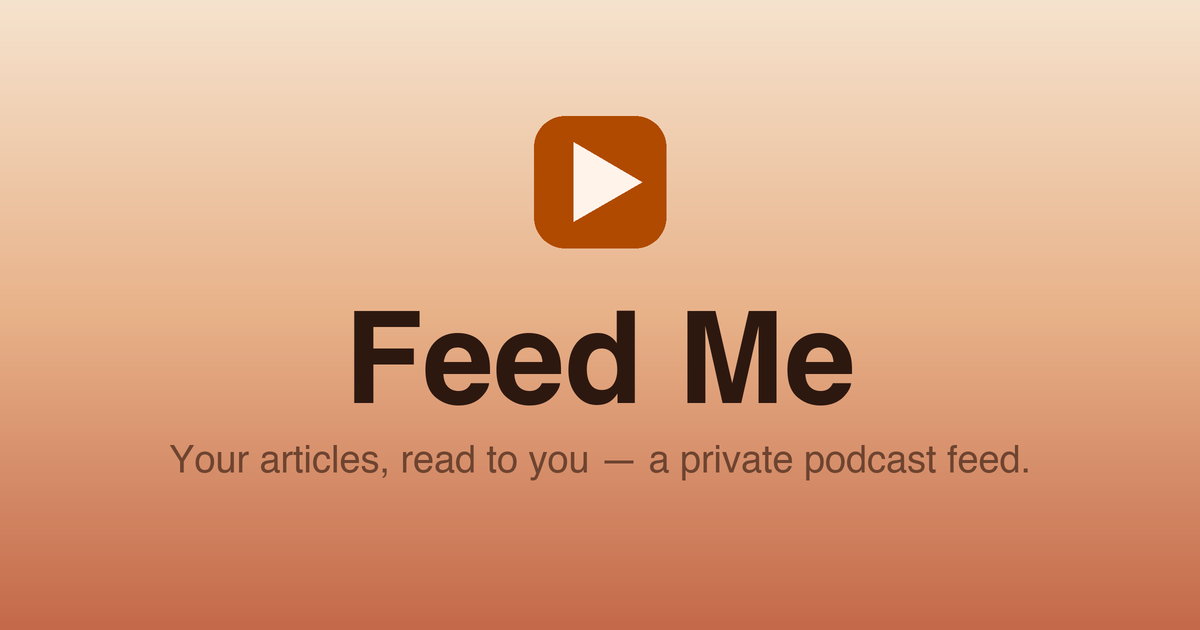
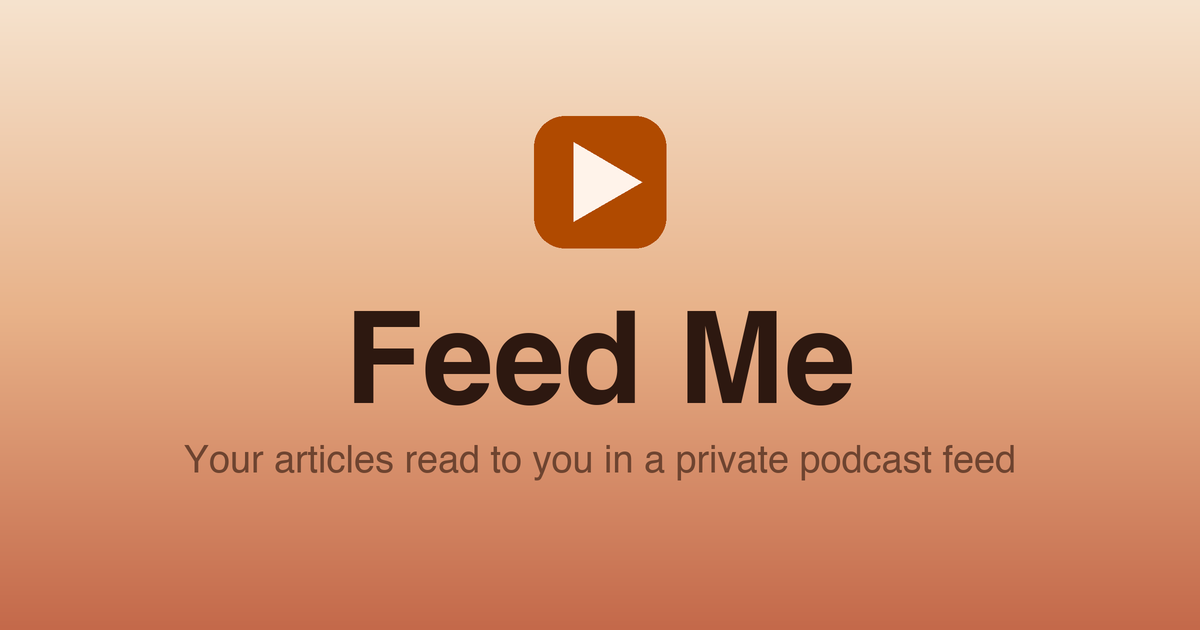
ux(web): match landing page to setup style; new OG tagline; drop em-dashes
- Landing page rebuilt in the warm Soft-Rounded look (cards, badges, accent)
- OG image tagline: 'Your articles read to you in a private podcast feed'
- Remove em-dashes from landing/share copy + meta

Changed region(s): [[0.1233, 0.6937, 0.8633, 0.754]]

diff --git a/templates/landing.html b/templates/landing.html
@@ -3,150 +3,95 @@
 <head>
   <meta charset="utf-8">
   <meta name="viewport" content="width=device-width, initial-scale=1">
-  <title>Feed Me — your private podcast feed</title>
-  <meta name="description" content="Your articles, read to you in your own private podcast feed.">
+  <title>Feed Me · your private podcast feed</title>
+  <meta name="description" content="Your articles read to you in a private podcast feed.">
   <meta property="og:type" content="website">
   <meta property="og:site_name" content="Feed Me">
   <meta property="og:title" content="Feed Me">
-  <meta property="og:description" content="Your articles, read to you in your own private podcast feed.">
+  <meta property="og:description" content="Your articles read to you in a private podcast feed.">
   <meta property="og:url" content="{{ base_url }}/">
   <meta property="og:image" content="{{ base_url }}/og.png">
   <meta property="og:image:width" content="1200">
   <meta property="og:image:height" content="630">
-  <meta property="og:image:alt" content="Feed Me — your articles, read to you in a private podcast feed.">
+  <meta property="og:image:alt" content="Feed Me. Your articles read to you in a private podcast feed.">
   <meta name="twitter:card" content="summary_large_image">
   <meta name="twitter:title" content="Feed Me">
-  <meta name="twitter:description" content="Your articles, read to you in your own private podcast feed.">
+  <meta name="twitter:description" content="Your articles read to you in a private podcast feed.">
   <meta name="twitter:image" content="{{ base_url }}/og.png">
   <link rel="icon" href="/favicon.ico" sizes="any">
   <link rel="icon" type="image/png" sizes="32x32" href="/favicon-32.png">
   <link rel="apple-touch-icon" href="/apple-touch-icon.png">
   <style>
+    :root {
+      --bg: #FFF8F2; --ink: #2a1f18; --accent: #b04a00;
+      --muted: #8a6f5e; --hi: #FCE3C8;
+      --round: ui-rounded, "SF Pro Rounded", -apple-system, system-ui, sans-serif;
+      --sans: -apple-system, "Helvetica Neue", system-ui, sans-serif;
+    }
+    * { box-sizing: border-box; }
     body {
-      font-family: -apple-system, "Inter", "Helvetica Neue", system-ui, sans-serif;
-      max-width: 480px;
-      margin: 60px auto;
-      padding: 0 24px;
-      line-height: 1.5;
-      color: #0a0a0a;
-      background: #fff;
-      -webkit-font-smoothing: antialiased;
+      font-family: var(--sans); max-width: 480px; margin: 56px auto; padding: 0 22px 64px;
+      line-height: 1.5; color: var(--ink); background: var(--bg); -webkit-font-smoothing: antialiased;
     }
     .brand {
-      font-size: 10px;
-      color: #767676;
-      text-transform: uppercase;
-      letter-spacing: 0.14em;
-      font-weight: 700;
-      margin-bottom: 24px;
+      font-family: var(--round); font-size: 12px; font-weight: 800; letter-spacing: .08em;
+      text-transform: uppercase; color: var(--accent); margin-bottom: 18px;
     }
     h1 {
-      font-size: 28px;
-      font-weight: 600;
-      letter-spacing: -0.025em;
-      line-height: 1.15;
-      margin: 0 0 10px;
-      text-wrap: balance;
+      font-family: var(--round); font-size: 32px; font-weight: 800; letter-spacing: -.015em;
+      line-height: 1.12; margin: 0 0 12px; text-wrap: balance;
     }
-    h1 .key {
-      border-bottom: 2px solid #0a0a0a;
-      padding-bottom: 1px;
+    h1 .em { background: var(--hi); border-radius: 6px; padding: 0 6px; }
+    .sub { font-size: 15px; color: var(--muted); margin: 0 0 22px; }
+    .cta {
+      display: inline-block; background: var(--accent); color: #fff; font-family: var(--sans);
+      font-size: 15px; font-weight: 700; padding: 13px 24px; border: none; border-radius: 999px; cursor: pointer;
     }
-    .sub {
-      font-size: 14px;
-      color: #6a6a6a;
-      line-height: 1.4;
-      margin: 0 0 18px;
-    }
-    button {
-      display: inline-block;
-      background: #0a0a0a;
-      color: #fff;
-      font-size: 14px;
-      padding: 10px 20px;
-      border: none;
-      border-radius: 999px;
-      font-weight: 500;
-      font-family: inherit;
-      cursor: pointer;
-    }
-    .steps {
-      margin-top: 24px;
-      padding-top: 20px;
-      border-top: 1px solid #eee;
-    }
+    .sec { font-family: var(--round); font-size: 13px; font-weight: 800; color: #7a5f4e; margin: 34px 0 14px; }
     .step {
-      display: grid;
-      grid-template-columns: 24px 1fr;
-      gap: 14px;
-      position: relative;
-      padding-bottom: 14px;
+      display: flex; gap: 14px; align-items: flex-start; background: #fff; border-radius: 16px;
+      padding: 15px 16px; margin-bottom: 11px; box-shadow: 0 1px 0 #F3E6D9, 0 6px 16px rgba(176, 74, 0, .05);
     }
-    .step:not(:last-child)::before {
-      content: '';
-      position: absolute;
-      left: 11px;
-      top: 26px;
-      bottom: 0;
-      width: 2px;
-      background: #eaeaea;
+    .step .n {
+      flex: none; width: 27px; height: 27px; border-radius: 50%; background: var(--accent); color: #fff;
+      font-family: var(--round); font-weight: 800; font-size: 14px; display: flex; align-items: center; justify-content: center;
     }
-    .circle {
-      width: 22px;
-      height: 22px;
-      border-radius: 50%;
-      border: 1.5px solid #0a0a0a;
-      display: flex;
-      align-items: center;
-      justify-content: center;
-      font-size: 11px;
-      font-weight: 700;
-      background: #fff;
-      position: relative;
-      z-index: 1;
-    }
-    .step-title {
-      font-size: 15px;
-      font-weight: 600;
-      color: #0a0a0a;
-      line-height: 1.3;
-      margin-bottom: 3px;
-    }
-    .step-desc {
-      font-size: 13px;
-      color: #6a6a6a;
-      line-height: 1.45;
-    }
+    .step .t { font-size: 15px; font-weight: 600; line-height: 1.4; color: var(--ink); }
+    .step .d { font-size: 12.5px; color: var(--muted); margin-top: 2px; line-height: 1.45; }
+    form { margin: 0; }
   </style>
 </head>
 <body>
-  <div class="brand">Feed Me</div>
-  <h1>Your articles, read to you in <span class="key">your own private</span>&nbsp;podcast&nbsp;feed.</h1>
+  <div class="brand">🎧 Feed Me</div>
+  <h1>Your articles, read to you in your own <span class="em">private</span> podcast feed.</h1>
   <p class="sub">Share an article, play it later.</p>
   <form action="/create" method="post">
-    <button type="submit">Get my feed →</button>
+    <button class="cta" type="submit">Get my feed →</button>
   </form>
-  <div class="steps">
-    <div class="step">
-      <div class="circle">1</div>
-      <div>
-        <div class="step-title">Create your feed</div>
-        <div class="step-desc">A private URL only you know. Bookmark it.</div>
-      </div>
+
+  <div class="sec">How it works</div>
+
+  <div class="step">
+    <div class="n">1</div>
+    <div>
+      <div class="t">Create your feed</div>
+      <div class="d">A private URL only you know.</div>
     </div>
-    <div class="step">
-      <div class="circle">2</div>
-      <div>
-        <div class="step-title">Install the Shortcut</div>
-        <div class="step-desc">One tap. Lives in your iOS share sheet.</div>
-      </div>
+  </div>
+
+  <div class="step">
+    <div class="n">2</div>
+    <div>
+      <div class="t">Install the Shortcut</div>
+      <div class="d">One tap. Lives in your iOS share sheet.</div>
     </div>
-    <div class="step">
-      <div class="circle">3</div>
-      <div>
-        <div class="step-title">Subscribe in any podcast app</div>
-        <div class="step-desc">Apple Podcasts, Overcast, Pocket Casts — standard RSS.</div>
-      </div>
+  </div>
+
+  <div class="step">
+    <div class="n">3</div>
+    <div>
+      <div class="t">Subscribe in any podcast app</div>
+      <div class="d">Apple Podcasts, Overcast, Pocket Casts. Standard RSS.</div>
     </div>
   </div>
 </body>

diff --git a/templates/share.html b/templates/share.html
@@ -60,7 +60,7 @@
       <p class="title">{{ title }}</p>
       <div class="bar indeterminate" id="fm-bar" aria-hidden="true"><div class="fill" id="fm-fill"></div></div>
       <p class="pct" id="fm-pct">Preparing…</p>
-      <p class="hint">Generating the audio. You can close this tab — it'll be in your podcast app when it's ready.</p>
+      <p class="hint">Generating the audio. You can close this tab. It'll be in your podcast app when it's ready.</p>
     </div>
     <div id="fm-ready" hidden>
       <div class="emoji" aria-hidden="true">🎧</div>

diff --git a/scripts/gen_og.py b/scripts/gen_og.py
@@ -83,7 +83,7 @@ def main():
 
     # Tagline.
     reg = _font(FONT_REG, int(38 * SS))
-    tag = "Your articles, read to you — a private podcast feed."
+    tag = "Your articles read to you in a private podcast feed"
     tb = d.textbbox((0, 0), tag, font=reg)
     tyy = wy + (wb[3] - wb[1]) + int(44 * SS)
     d.text(((w - (tb[2] - tb[0])) // 2 - tb[0], tyy), tag, font=reg, fill=SUBINK)
